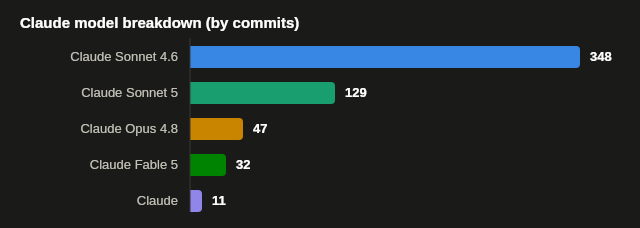
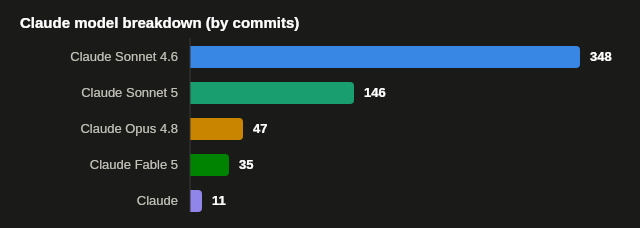
release: v2.2.6
Bump GLP_VERSION/config.yaml/package.json to 2.2.6, convert CHANGELOG's
[Unreleased] section to [2.2.6], and regenerate dev-stats (all three
sibling repos confirmed pushed/clean beforehand).

Ships the mobile machine-switcher fix (#385) from dev.

Changed region(s): [[0.5, 0.3377, 0.625, 0.4605], [0.3438, 0.6754, 0.4062, 0.7675]]

diff --git a/gaggiuino-local-profiler/lib/constants.js b/gaggiuino-local-profiler/lib/constants.js
@@ -3,7 +3,7 @@ if (typeof File === 'undefined') {
     try { global.File = require('buffer').File; } catch (_) { global.File = class File {}; }
 }
 
-const GLP_VERSION  = '2.2.5';
+const GLP_VERSION  = '2.2.6';
 const DEFAULT_PORT = 8099;
 
 const DATA_DIR             = '/data';

diff --git a/DEVELOPMENT.md b/DEVELOPMENT.md
@@ -1,22 +1,22 @@
 # Development Stats
 
-Generated 2026-07-14 by `scripts/dev-stats.mjs`. Re-run it any time to refresh these numbers — they are computed live from git history, not hand-maintained.
+Generated 2026-07-15 by `scripts/dev-stats.mjs`. Re-run it any time to refresh these numbers — they are computed live from git history, not hand-maintained.
 
 ## Timeline
 
-The GLP ecosystem (this app + 3 companion repos) has been in development since **2026-05-20** — **56 days** as of the last commit (2026-07-14).
+The GLP ecosystem (this app + 3 companion repos) has been in development since **2026-05-20** — **57 days** as of the last commit (2026-07-15).
 
 | Repo | First commit | Last commit | Commits | Claude co-authored |
 |---|---|---|---|---|
-| gaggiuino-local-profiler | 2026-05-20 | 2026-07-14 | 493 | 398 (81%) |
-| glp-integration | 2026-05-22 | 2026-07-13 | 75 | 60 (80%) |
-| glp-lovelace-card | 2026-05-24 | 2026-07-13 | 76 | 67 (88%) |
-| glp-order-card | 2026-05-25 | 2026-07-13 | 48 | 42 (88%) |
-| **Combined** | **2026-05-20** | **2026-07-14** | **692** | **567 (82%)** |
+| gaggiuino-local-profiler | 2026-05-20 | 2026-07-15 | 529 | 413 (78%) |
+| glp-integration | 2026-05-22 | 2026-07-14 | 76 | 61 (80%) |
+| glp-lovelace-card | 2026-05-24 | 2026-07-15 | 81 | 69 (85%) |
+| glp-order-card | 2026-05-25 | 2026-07-15 | 53 | 44 (83%) |
+| **Combined** | **2026-05-20** | **2026-07-15** | **739** | **587 (79%)** |
 
 ![Commits per repo](docs/dev-stats/commits-per-repo.png)
 
-Combined line changes (insertions + deletions across all commits): **234.080**, of which **179.141** landed in Claude-co-authored commits.
+Combined line changes (insertions + deletions across all commits): **236.945**, of which **179.733** landed in Claude-co-authored commits.
 
 Commits without a Claude co-author line are presumed human-only (manual fixes, merges, config tweaks) — not independently verified.
 
@@ -25,9 +25,9 @@ Commits without a Claude co-author line are presumed human-only (manual fixes, m
 | Model | Commits |
 |---|---|
 | Claude Sonnet 4.6 | 348 |
-| Claude Sonnet 5 | 129 |
+| Claude Sonnet 5 | 146 |
 | Claude Opus 4.8 | 47 |
-| Claude Fable 5 | 32 |
+| Claude Fable 5 | 35 |
 | Claude | 11 |
 
 ![Claude model breakdown by commits](docs/dev-stats/model-breakdown.png)
@@ -38,7 +38,7 @@ The exact co-author string varies by era as model names changed over the project
 
 This is **not** measured token usage or an actual invoice. It multiplies changed lines (insertions + deletions) in Claude-co-authored commits by an assumed 25 tokens/line (covers the conversation and planning overhead around a diff, not just the diff bytes), then applies the price table in `scripts/dev-stats.pricing.json` — which ships with every price set to `null` until you fill in your own plan/API rates.
 
-**Estimated cost: ~$28.33** across 175.577 priced lines (+ 3.563 lines from unpriced models, excluded from this total).
+**Estimated cost: ~$28.28** across 176.286 priced lines (+ 3.447 lines from unpriced models, excluded from this total).
 
 ---
 *This file is generated. Do not hand-edit — re-run `node scripts/dev-stats.mjs` instead.*

diff --git a/gaggiuino-local-profiler/CHANGELOG.md b/gaggiuino-local-profiler/CHANGELOG.md
@@ -1,4 +1,4 @@
-## [Unreleased]
+## [2.2.6] – 2026-07-15
 
 ### Fixed
 - **Mobile: machine switcher collapsed to an icon-only control.** On narrow viewports the topbar machine select rendered the full machine name, eating roughly a third of the mode bar and forcing the view tabs into scroll. Since the active machine's name is already shown in the subtitle line, the select now collapses to a centered chevron (~34px tap target) below 768px — native picker behavior unchanged, CSS-only. Closes #385